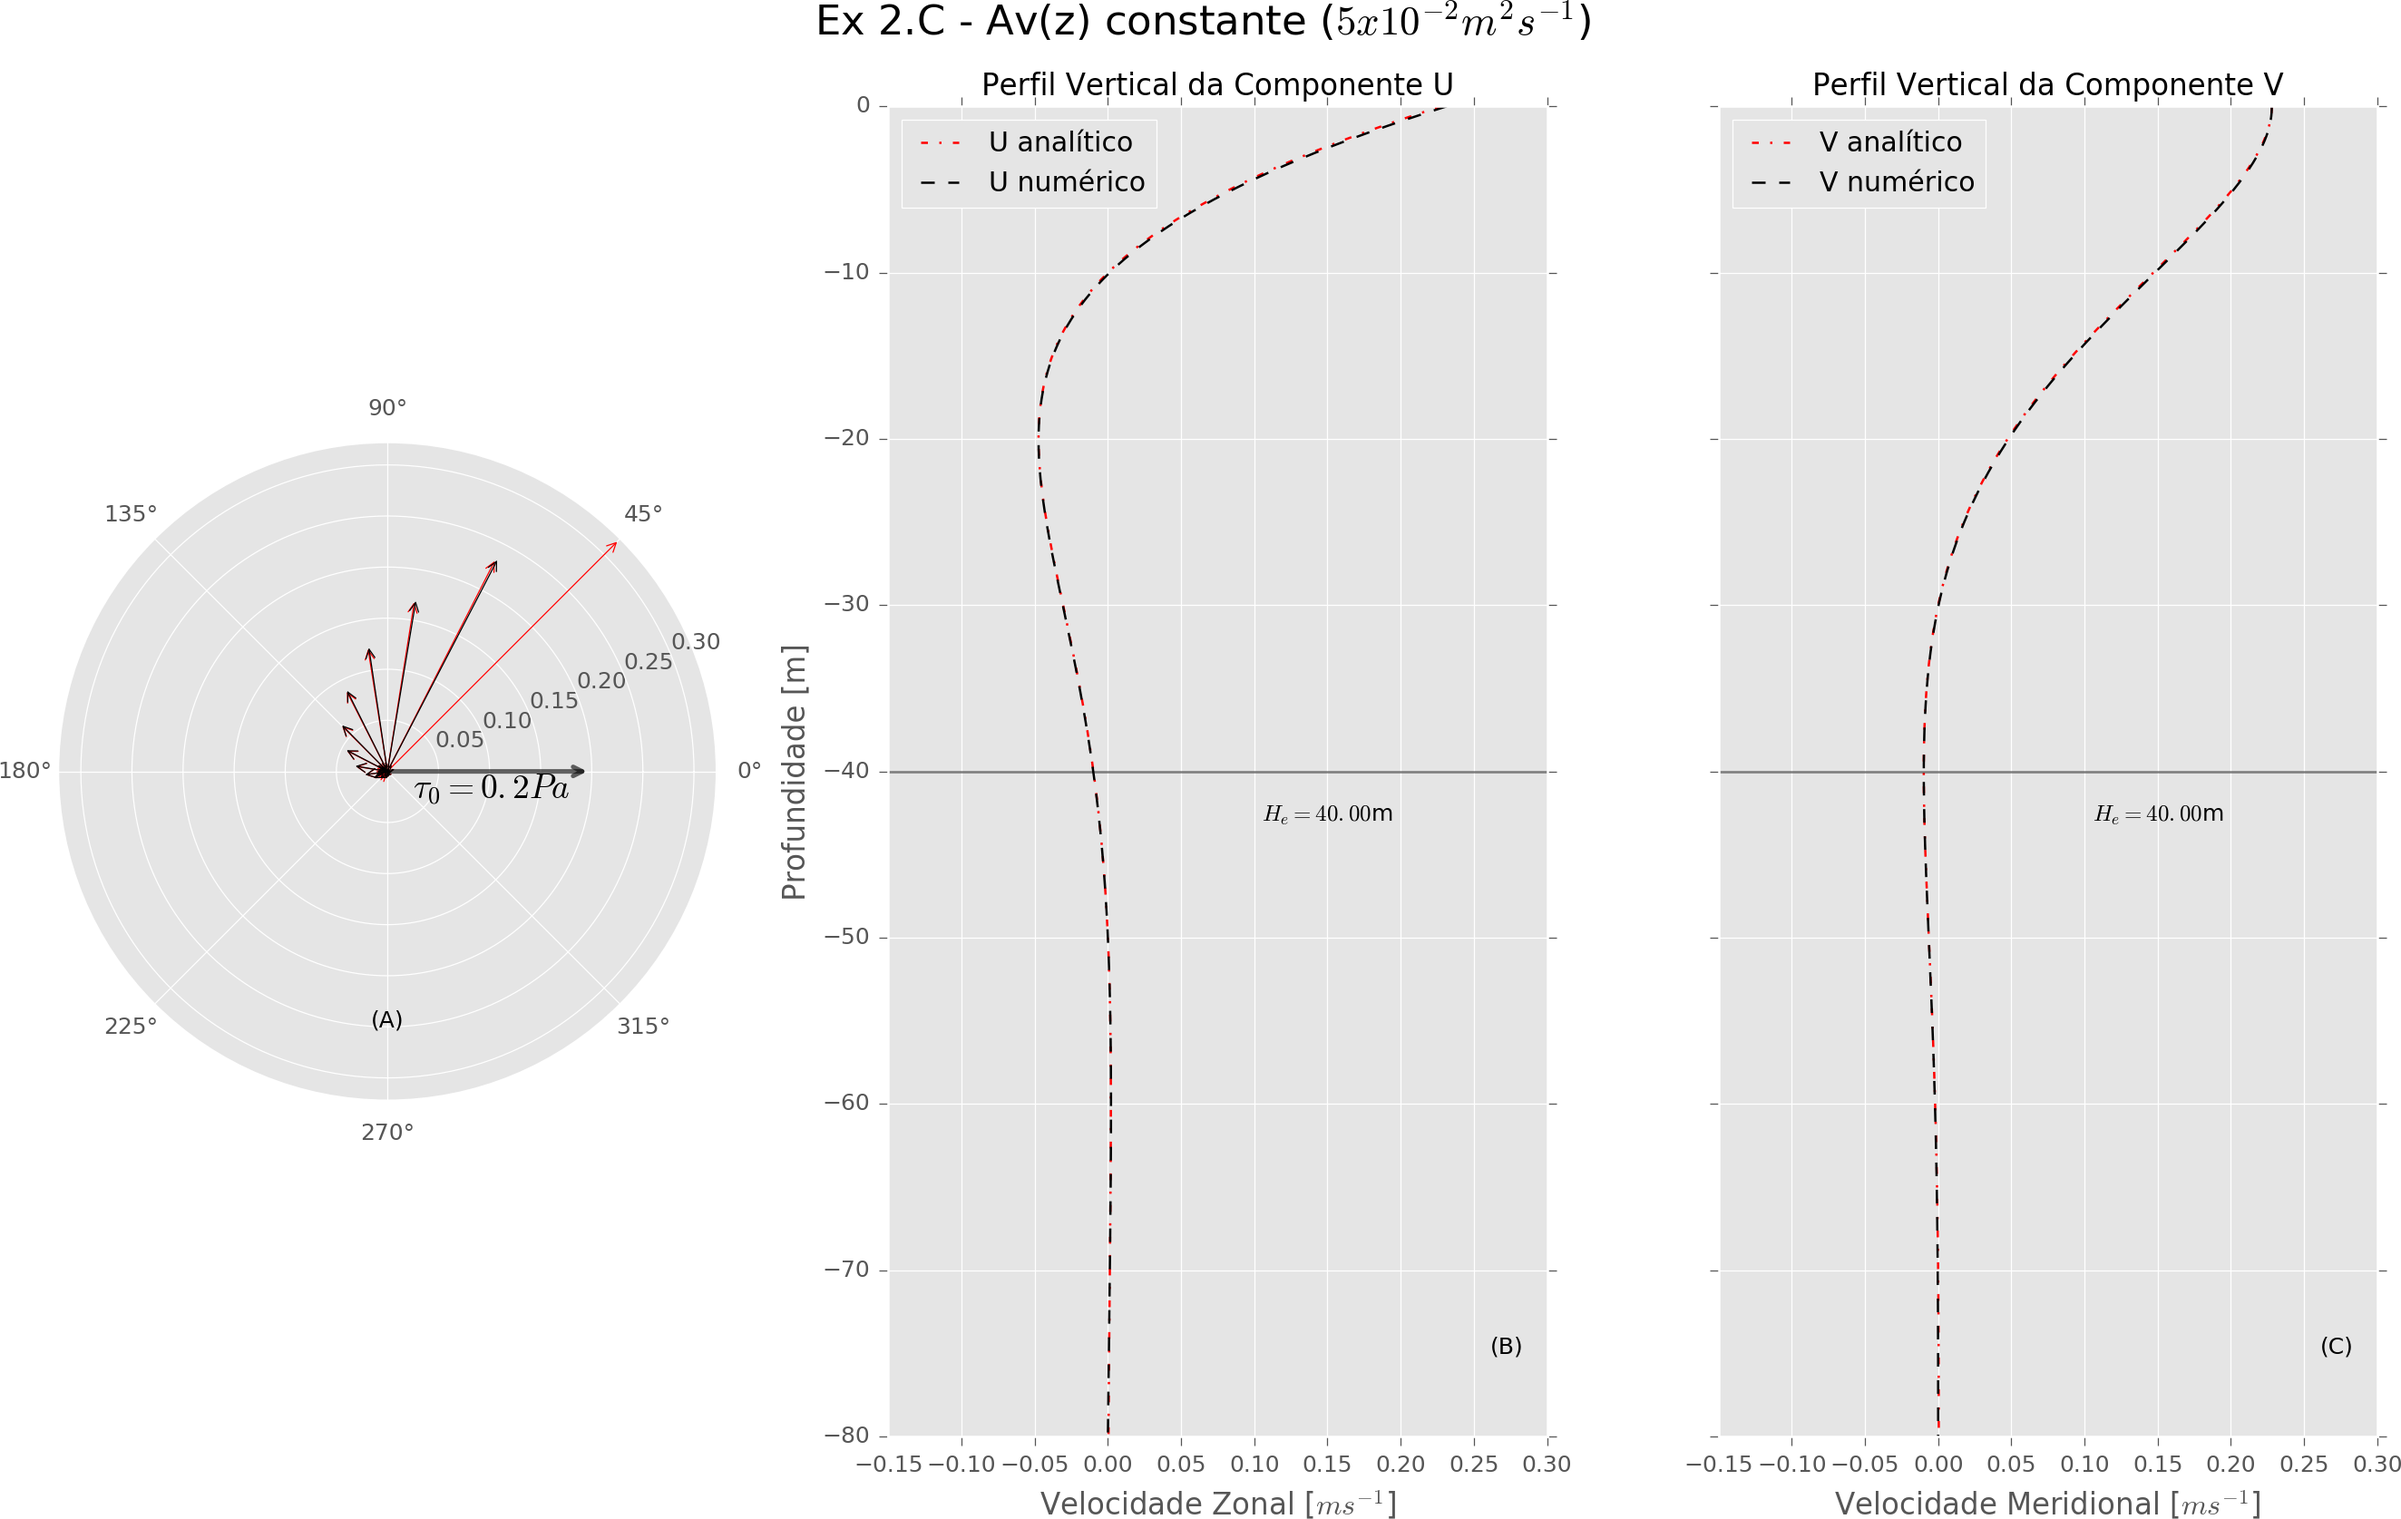
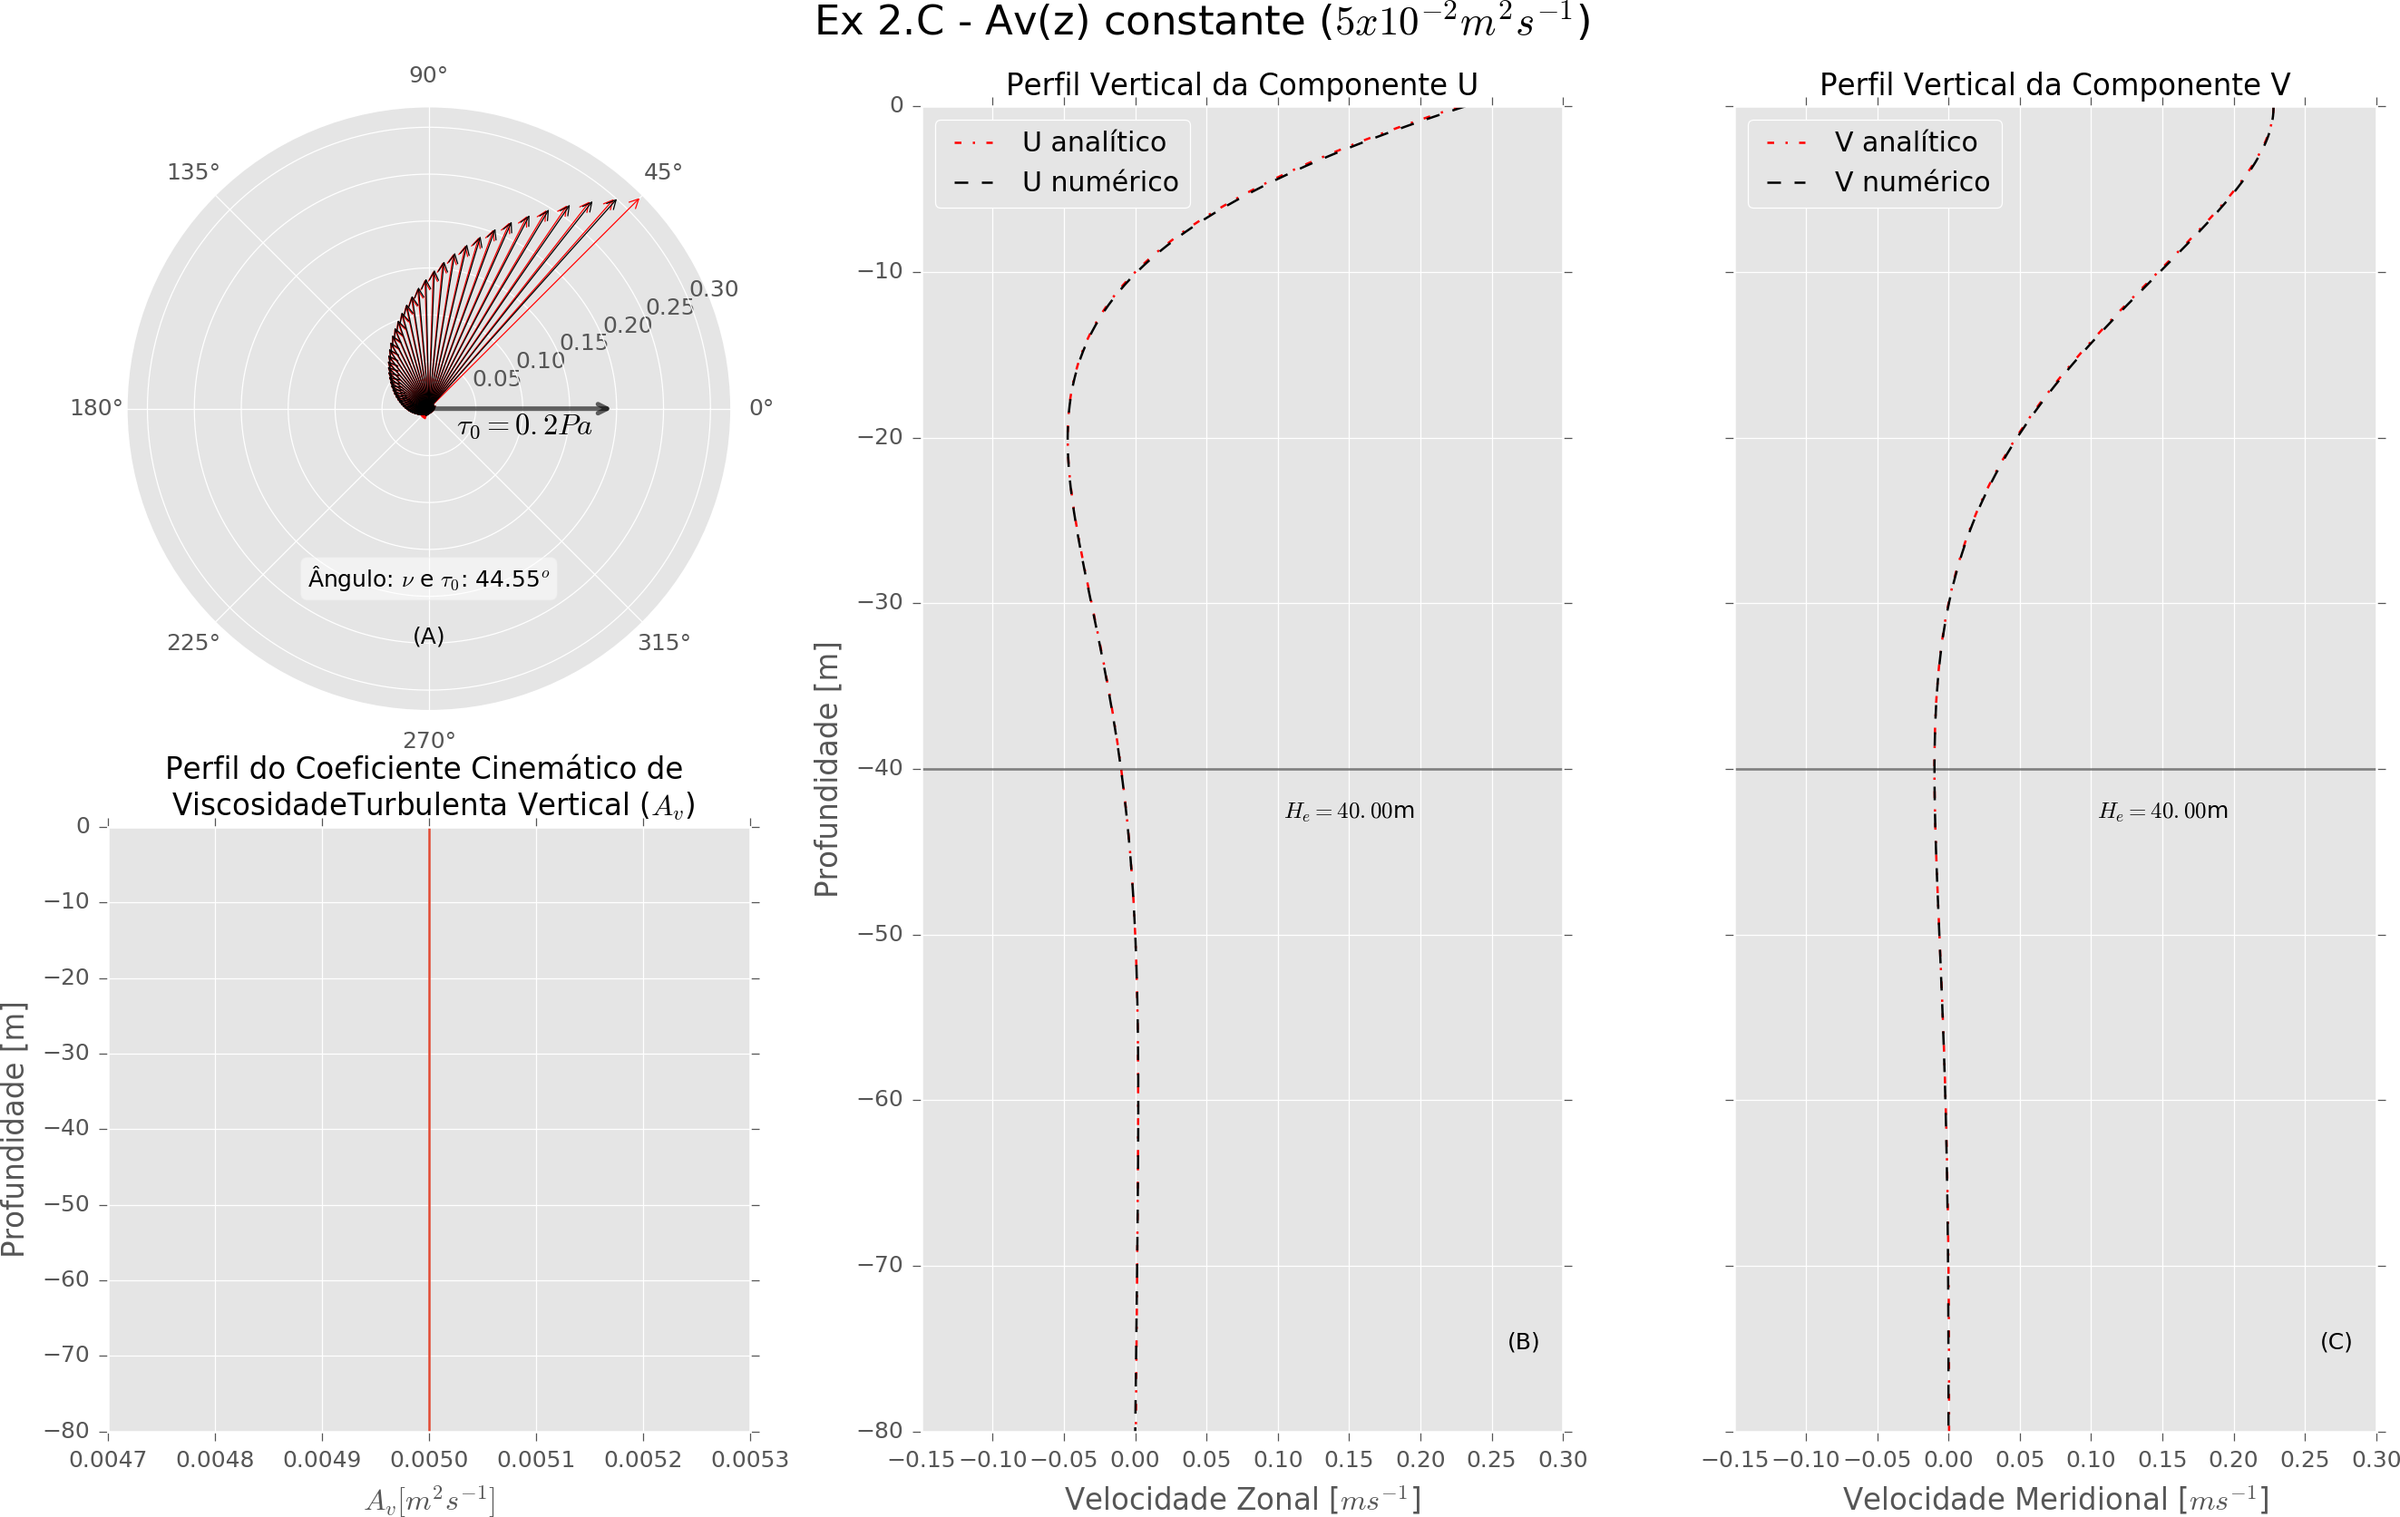
homeJob_01Ago

diff --git a/IOC5811/lista3/codes/list3.py b/IOC5811/lista3/codes/list3.py
@@ -237,20 +237,20 @@ def multiple_compass(ax, us, vs, colors, arrowprops=None):
 
     """
 
-    U,V,C    = us[0], vs[0], colors[0]                          # extrair solução numérica
-    ue,ve,ce = us[1], vs[1], colors[1]                          # extrair solução analítica
+    U,V,C    = us[0], vs[0], colors[0]                  # extrair solução numérica
+    ue,ve,ce = us[1], vs[1], colors[1]                  # extrair solução analítica
 
     # plotar primeiro analítico
-    angles, radii = cart2pol(ue,ve)                             # converter u,v para polar
-    kw = dict(arrowstyle="->", color=ce)                        # keyword com informações das setas
+    angles, radii = cart2pol(ue,ve)                     # converter u,v para polar
+    kw = dict(arrowstyle="->", color=ce)                # keyword com informações das setas
     if arrowprops:
         kw.update(arrowprops)
     
-    [ax.annotate("", xy=(angle, radius), xytext=(0, 0),         # plotar as setas
+    [ax.annotate("", xy=(angle, radius), xytext=(0, 0), # plotar as setas
                  arrowprops=kw) for
      angle, radius in zip(angles, radii)]
 
-    ax.set_ylim(0, np.max(radii))                               # setar limite do raio do plot
+    ax.set_ylim(0, np.max(radii))                       # setar limite do raio do plot
 
     # plotar numérico
     angles, radii = cart2pol(U,V)
@@ -261,11 +261,23 @@ def multiple_compass(ax, us, vs, colors, arrowprops=None):
                  arrowprops=kw) for
      angle, radius in zip(angles, radii)]
 
-                                                                # plotar vetor do vento
-    kw = dict(arrowstyle="->", edgecolor='black', facecolor='darkgreen', lw=2, alpha=0.6)
-    ax.annotate("", xy=(0., 0.2), xytext=(0,0), arrowprops=kw)  # características do vetor
+    ################################################
+    ### plotar vetor do vento e angulo calculado ###
+    ################################################
+
+    kw = dict(arrowstyle="->", edgecolor='black',               # propriedades do vetor
+                facecolor='darkgreen', lw=2, alpha=0.6)
+    ax.annotate("", xy=(0., 0.2), xytext=(0,0), arrowprops=kw)  # plotando vetor
     
-    ax.text(1.917*np.pi, 0.105, r'$\tau_0 = 0.2Pa$', ha='center', fontsize=13)# expressão do vento
+    ax.text(1.917*np.pi, 0.105, r'$\tau_0 = 0.2Pa$',            # texto com expressão do vento
+                ha='center', fontsize=13)
+
+    ang = np.rad2deg(angles[0])                                 # convertendo de radiano para graus
+    angle = r'Ângulo: $\nu$ e $\tau_0$: %2.2f$^o$'%(ang)        # calculo do angulo entre solução 
+                                                                # numérica e vetor vento
+
+    props = dict(boxstyle='round', facecolor='white', alpha=0.5)                # propriedade do quadrado
+    ax.text((270*np.pi)/180, 0.19, angle,fontsize=10, ha='center',bbox=props)   # inserindo texto
 
     return ax
 
@@ -392,10 +404,10 @@ def exercicio3():
 
         prof_camada = calcular_profundidadeEfetiva(spde, spd, Z, hE)# calculo da profundidade efetiva com o perfil de Av do experimento
         
-        plotar_exec3(U,V,Z,ue,ve,title,profEfetiva=prof_camada,savefig=key[:6].replace(' ', '').replace('.', '') + '.png')
+        plotar_exec3(Av,U,V,Z,ue,ve,title,profEfetiva=prof_camada,savefig=key[:6].replace(' ', '').replace('.', '') + '.png') #
 
 """ plotar exercicio 3"""
-def plotar_exec3(U,V,Z,ue,ve,title,profEfetiva,savefig=''):
+def plotar_exec3(Av,U,V,Z,ue,ve,title,profEfetiva,savefig=''):
     """
         Plotar hodógrafo e perfil vertical das componentes de velocidade, tanto da 
         solução analítica clássica, como da solução numérica para Av(z).
@@ -414,11 +426,12 @@ def plotar_exec3(U,V,Z,ue,ve,title,profEfetiva,savefig=''):
     ##################################################################
 
     figsize      = (15,10)                          # tamanho da figura
-    gradeamento  = [1,3]                            # gradeamento dos subplots
-    spaceStep    = 20                               # step para plotar os vetores (evitar imagem densa)
+    gradeamento  = [2,3]                            # gradeamento dos subplots
+    spaceStep    = 4                                # step para plotar os vetores (evitar imagem densa)
 
     limite_eixoX = [-0.15, 0.3]                     # xlim para os perfis verticais
     limite_eixoY = [-80.0, 0.0]                     # xlim para os perfis verticais
+    limite_Av    = [0.0, 0.005]                     # limite horizontal para perfil de Av
     he_plot      = profEfetiva                      # linha horizontal para profundidade efetiva, em metros e negativo
 
     xy_a         = [(270*np.pi)/180, 0.25]          # posição do '(A)'
@@ -435,20 +448,19 @@ def plotar_exec3(U,V,Z,ue,ve,title,profEfetiva,savefig=''):
     ##################################################################
     ### plotar hodógrafo confrontando solução analítica e numérica ###
     ##################################################################
-    
     us = (U[::spaceStep],ue[::spaceStep])                           # juntando o U e ue com um step
     vs = (V[::spaceStep],ve[::spaceStep])                           # juntando o V e ve com um step
 
     ax1 = fig.add_subplot(gs[0,0], projection='polar')              
-    ax1 = multiple_compass(ax1, us, vs, colors=['k', 'r'])          # plotar os vetores de velocidade
-    
+    ax1 = multiple_compass(ax1, us, vs, colors=['k', 'r'])          # plotar os vetores de velocidade   
+
     ax1.text(xy_a[0], xy_a[1], '(A)', ha='center')                  # identificação do subplot
 
     ##################################################################
     ###                   plotar perfil vertical                   ###
     ##################################################################
 
-    ax2 = fig.add_subplot(gs[0,1])
+    ax2 = fig.add_subplot(gs[:,1])
     ax2.plot(ue,Z,'r-.',label=u'U analítico')                       # plotar U analítico
     ax2.plot(U,Z,'k--',label=u'U numérico')                         # plotar U numérico
     ax2.axhline(y=he_plot, color='black', alpha=.5)                 # He numérico - linha
@@ -465,9 +477,9 @@ def plotar_exec3(U,V,Z,ue,ve,title,profEfetiva,savefig=''):
 
     ax2.text(xy_b[0], xy_b[1], '(B)', ha='center')                  # identificação do plot
 
-    plt.legend(loc='best')                                          # geração da legenda
+    plt.legend(loc='best', fancybox=True)                           # geração da legenda
 
-    ax3 = fig.add_subplot(gs[0,2])
+    ax3 = fig.add_subplot(gs[:,2])
     ax3.plot(ve,Z,'r-.', label=u'V analítico')                      # plotar V analítico
     ax3.plot(V,Z,'k--', label=u'V numérico')                        # plotar V numérico
     ax3.axhline(y=he_plot, color='black', alpha=.5)                 # He numérico - linha
@@ -483,7 +495,16 @@ def plotar_exec3(U,V,Z,ue,ve,title,profEfetiva,savefig=''):
     ax3.set_ylim(limite_eixoY)                                      # limite do eixo Y
     ax3.text(xy_c[0], xy_c[1], '(C)', ha='center')                  # identificação do subplot
 
-    plt.legend(loc='best')                                          # geração da legenda
+    plt.legend(loc='best', fancybox=True)                           # geração da legenda
+
+    ax4 = fig.add_subplot(gs[1,0])                                  # eixo para plotar perfil de Av
+    ax4.plot(Av,Z)                                                  # plotar AvxZ
+    ax4.set_ylabel('Profundidade [m]', fontsize=13)                 # set ylabel
+    ax4.set_xlabel(u'$A_v [m^{2} s^{-1}]$', fontsize=13)            # set xlabel
+    ax4.set_title('Perfil do Coeficiente Cinemático de \n Viscosidade' 
+        + 'Turbulenta Vertical ($A_v$)', fontsize=13)               # set title
+
+    # ax4.set_xlim(limite_Av)                                         # limite horizontal de Av
 
     plt.suptitle(title, fontsize=18)                                # super título
 
@@ -501,7 +522,7 @@ def plotar_exec3(U,V,Z,ue,ve,title,profEfetiva,savefig=''):
 
 exercicio3()
 
-
+# remover os excessos de imagem branca ao redor do quadro importante
 import glob
 import os
 
